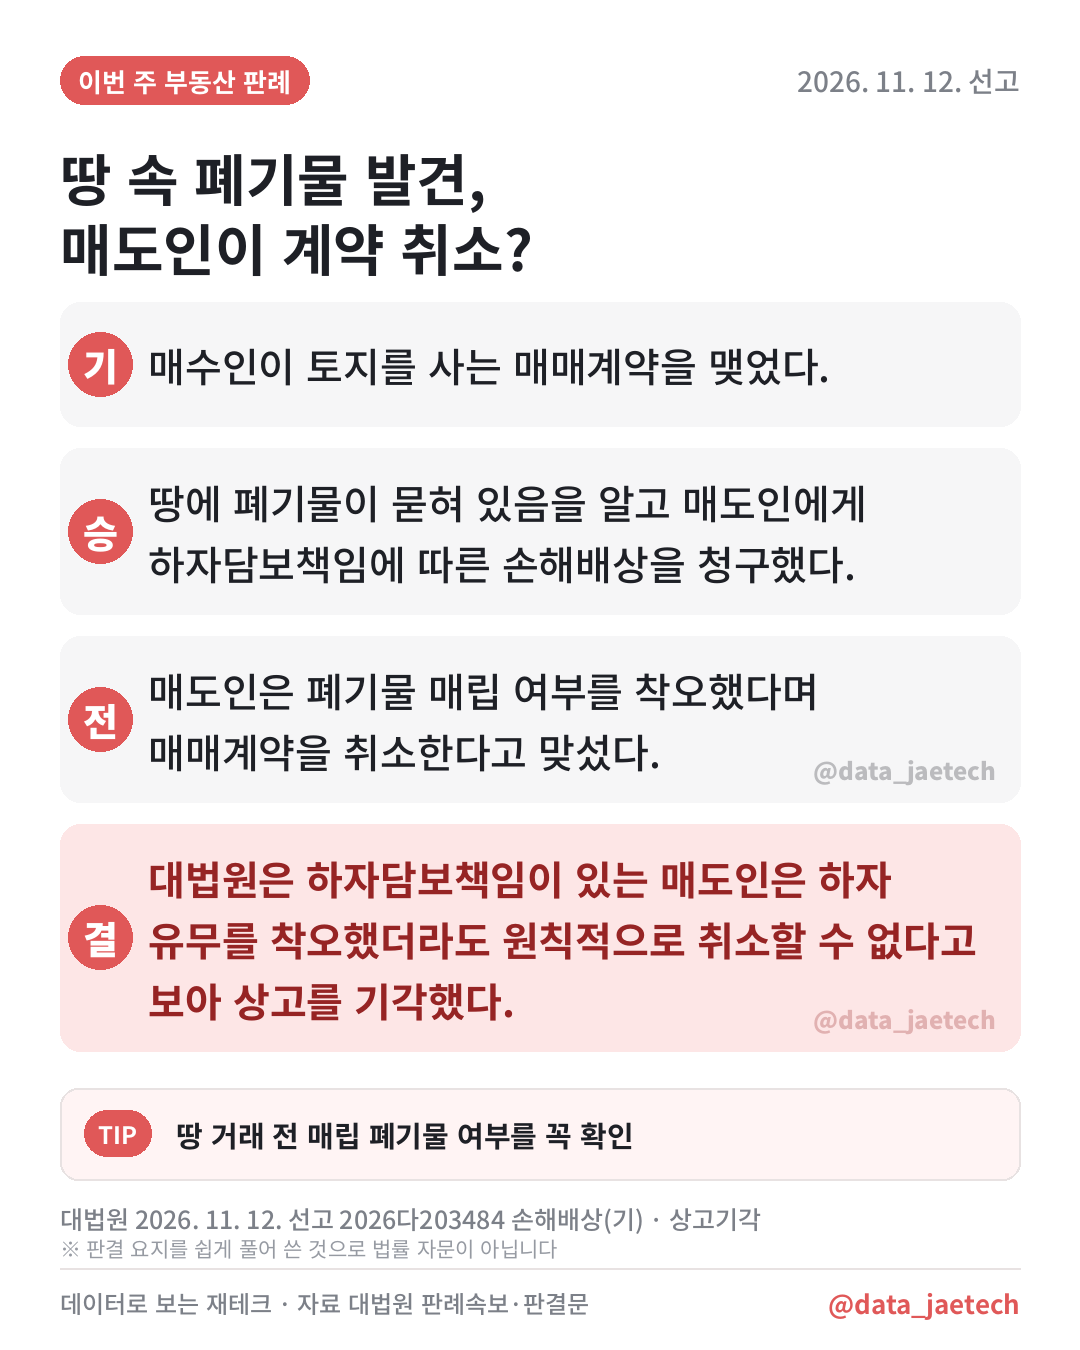
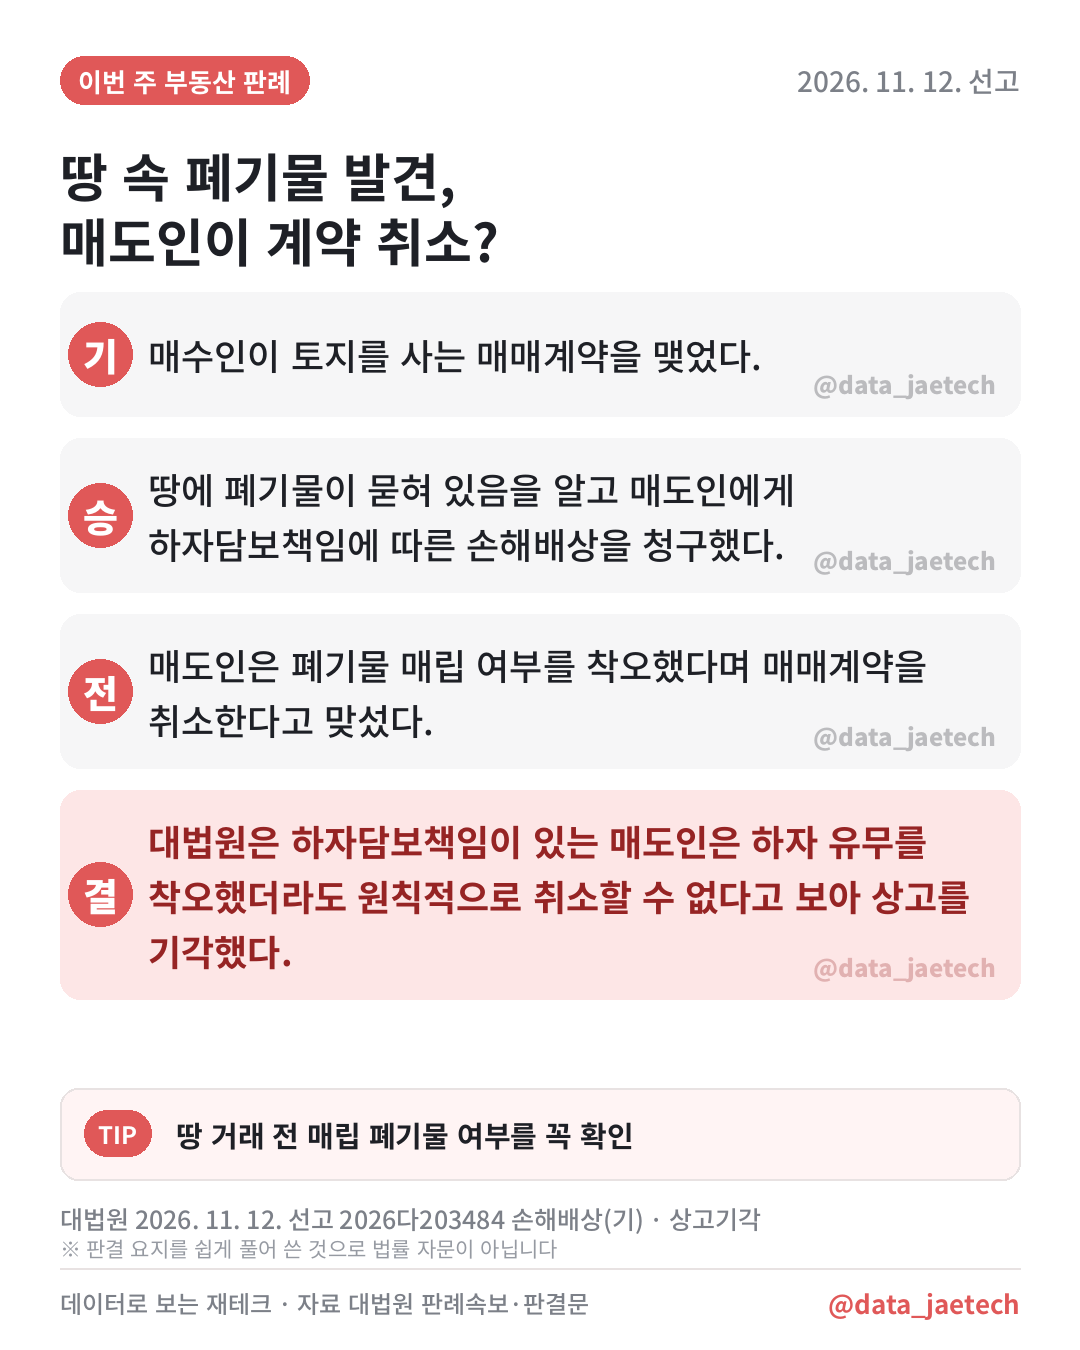
판례 카드 바로 게시 2026-11-26

Changed region(s): [[0.0306, 0.4667, 0.9472, 0.7778], [0.0611, 0.0933, 0.9167, 0.3111], [0.0611, 0.3422, 0.9167, 0.4356]]

diff --git a/law_now/insta/index.html b/law_now/insta/index.html
@@ -21,7 +21,7 @@ button{width:100%;margin-top:8px;padding:14px;border:0;border-radius:12px;backgr
 h2{font-size:15px;color:var(--ink2);margin:28px 0 4px}.none{text-align:center;color:var(--ink2);padding:40px 0}
 footer{text-align:center;color:var(--ink2);font-size:12px;padding:16px}footer a{color:inherit}
 </style></head><body>
-<header><small>데이터로 보는 재테크 · 인스타 게시용</small><h1>11월 23일(월) 올릴 게시물</h1></header>
+<header><small>데이터로 보는 재테크 · 인스타 게시용</small><h1>11월 26일(목) 올릴 게시물</h1></header>
 <main>
 <div class="todo">오늘 할 일: 이번 주 부동산 판례<br>
 <span style="color:var(--ink2);font-size:13px">① 이미지 저장 → ② 캡션 복사 → ③ 인스타에서 새 게시물</span></div>
@@ -29,25 +29,25 @@ footer{text-align:center;color:var(--ink2);font-size:12px;padding:16px}footer a{
 <section class="card">
   <div class="hd"><b>이번 주 부동산 판례</b><em>목</em></div>
   <p class="guide">사진 1장 선택 → 캡션 붙여넣기</p>
-  <div class="ims"><a class="im" href="../law/card.png?v=45128155642" download="law_1123_01.png"><img src="../law/card.png?v=45128155642" loading="lazy" alt=""><span>1</span></a></div>
+  <div class="ims"><a class="im" href="../law/card.png?v=45730523024" download="law_1126_01.png"><img src="../law/card.png?v=45730523024" loading="lazy" alt=""><span>1</span></a></div>
   <p class="tip">이미지를 길게 눌러 '사진에 저장' (PC는 클릭하면 저장)</p>
   
-  <textarea id="c0" readonly>⚖ 이번 주 부동산 판례 | 공공임대 입주 후 분양권을 샀다면?
+  <textarea id="c0" readonly>⚖ 이번 주 부동산 판례 | 땅 속 폐기물 발견, 매도인이 계약 취소?
 
-· 기 – 2015년 8월 공공건설임대아파트 임대차계약 후 입주한 임차인이 분양전환을 신청함
-· 승 – 임대사업자는 임차인이 다른 아파트 분양권을 취득했다며 부적격 통보를 함
-· 전 – 개정 규칙은 분양권도 주택 소유로 간주, 원심은 무주택자 아니라며 신청권 부정
-· 결 – 대법원은 개정 전 이미 입주한 임차인엔 무주택 유지 의무가 없다며 파기환송
+· 기 – 매수인이 토지를 사는 매매계약을 맺었다.
+· 승 – 땅에 폐기물이 묻혀 있음을 알고 매도인에게 하자담보책임에 따른 손해배상을 청구했다.
+· 전 – 매도인은 폐기물 매립 여부를 착오했다며 매매계약을 취소한다고 맞섰다.
+· 결 – 대법원은 하자담보책임이 있는 매도인은 하자 유무를 착오했더라도 원칙적으로 취소할 수 없다고 보아 상고를 기각했다.
 
-💡 개정 전 입주자는 분양권 있어도 분양전환 다툴 여지
+💡 땅 거래 전 매립 폐기물 여부를 꼭 확인
 
-· 대법원 2026. 10. 30. 선고 2026다200913 소유권이전등기 · 파기환송
+· 대법원 2026. 11. 12. 선고 2026다203484 손해배상(기) · 상고기각
 ※ 판결 요지를 쉽게 풀어 쓴 것으로 법률 자문이 아닙니다
 자료: 대법원 판례속보
 
 판결 자세한 내용은 프로필 링크(블로그)에서 👆
 
-#데이터로보는재테크 #부동산판례 #공공임대 #분양전환</textarea>
+#데이터로보는재테크 #부동산판례 #토지매매 #하자담보책임</textarea>
   <button onclick="cp('c0', this)">캡션 복사</button>
 </section>
 </main>
